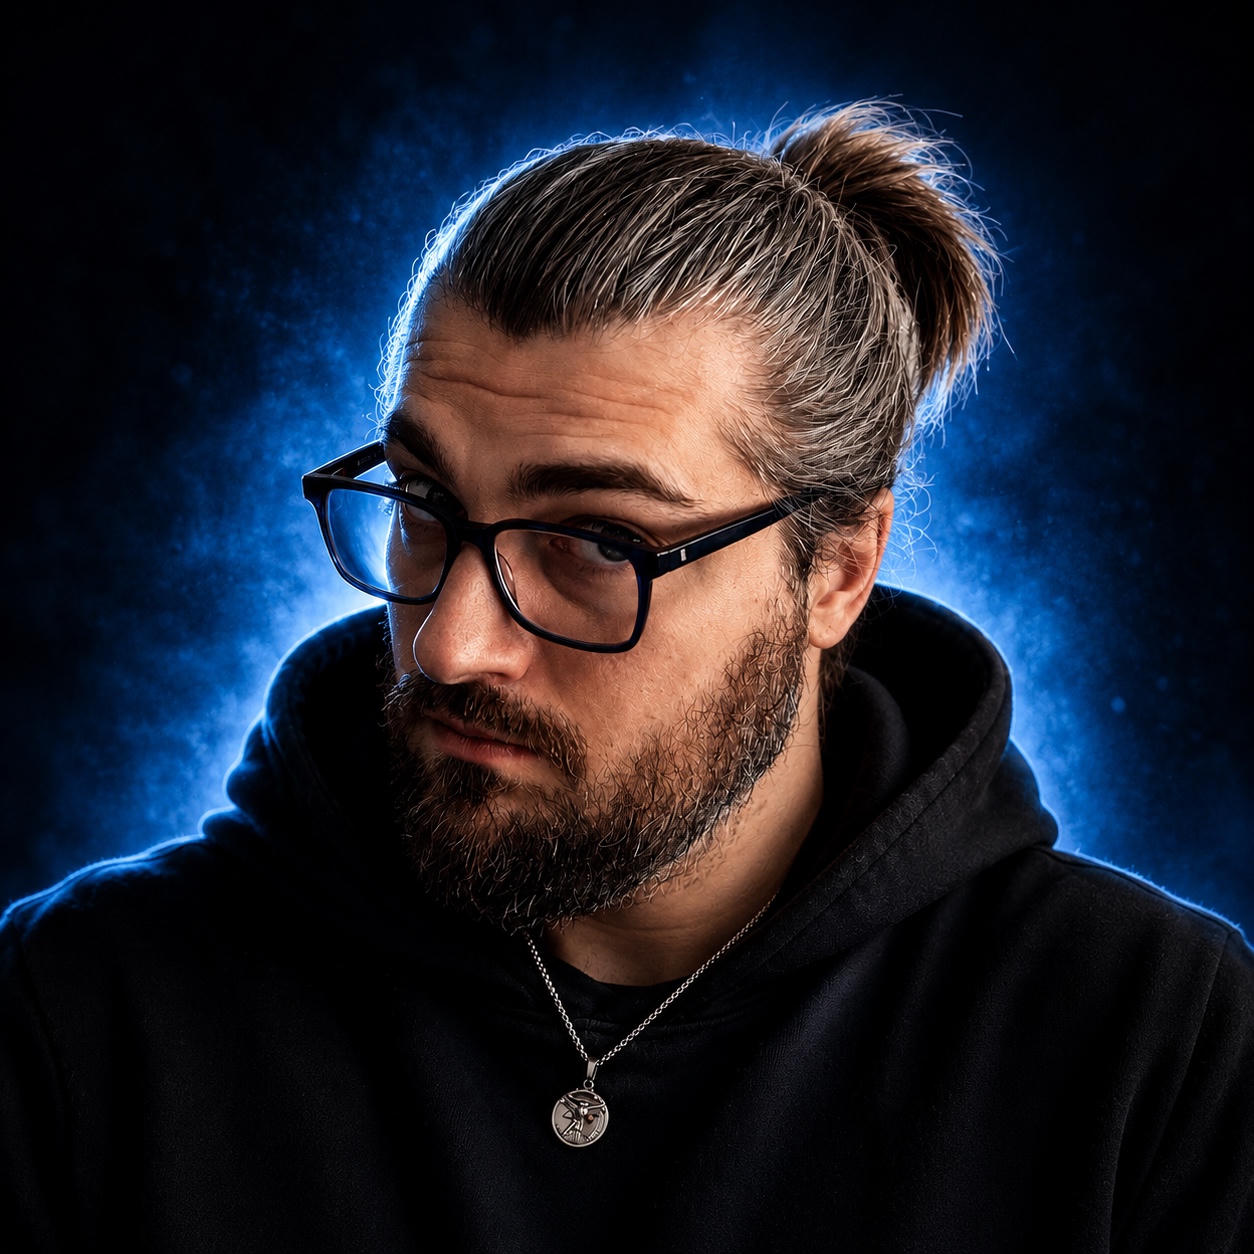
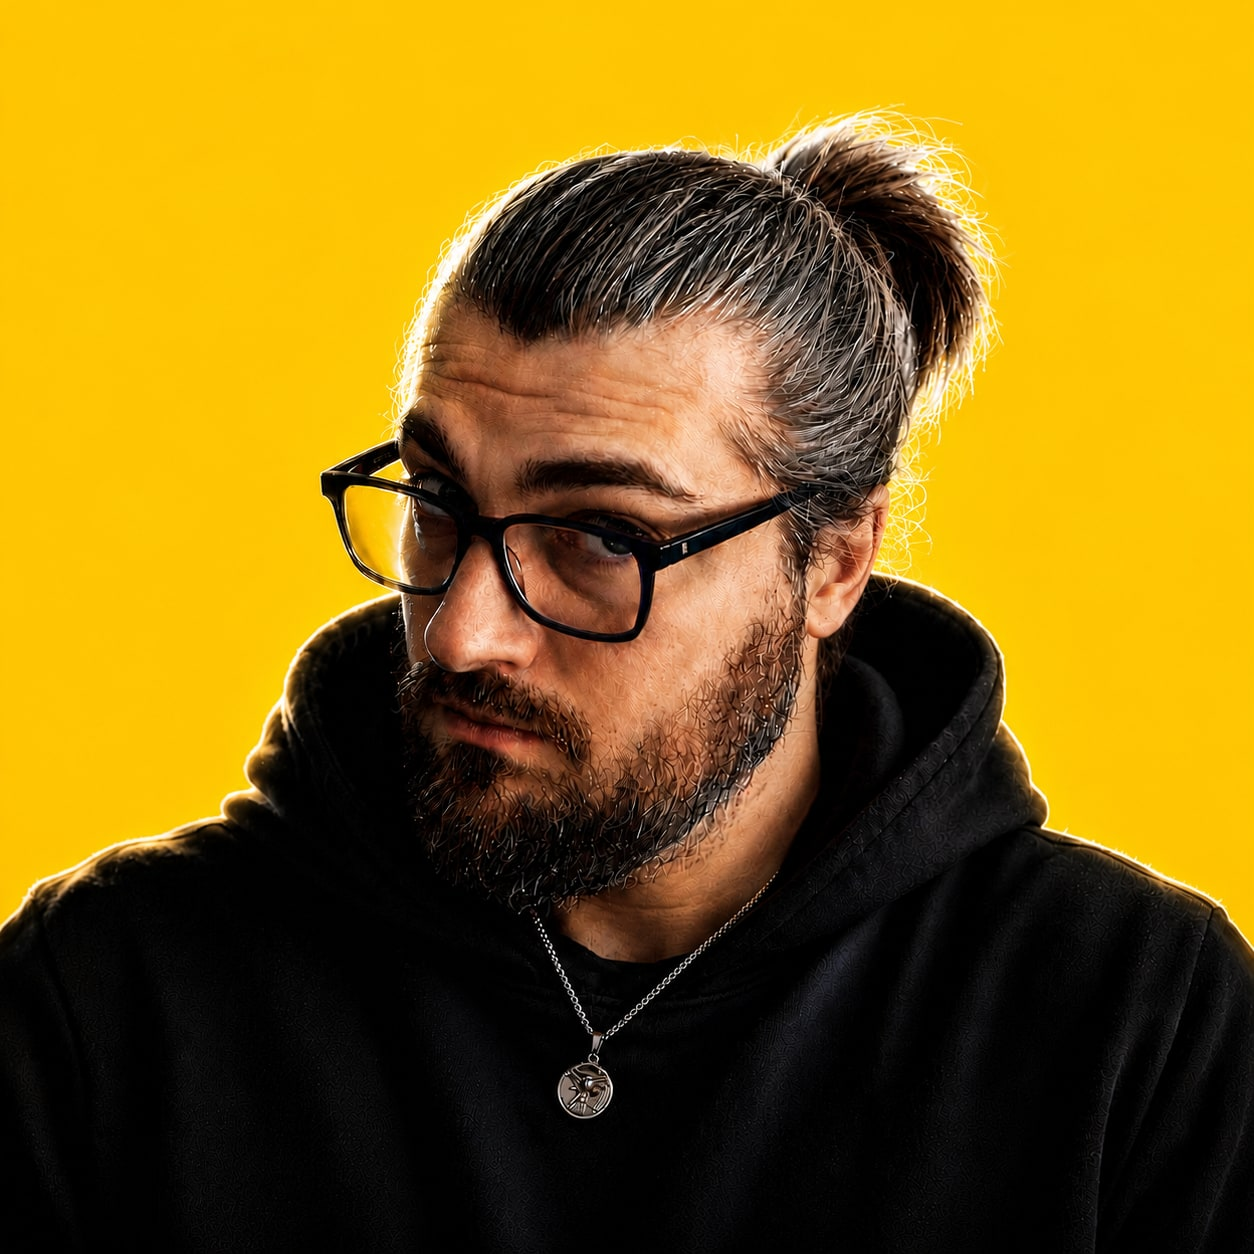
Swap the hero portrait and match the brand yellow to it.
The yellow in Pawel's photo is #FEC602, not the older Selfmade
#FDBB0B. The nav, CTA buttons, badge, and shadows now use that
value. The hero photo is the yellow portrait he sent.

diff --git a/pawelkarniej-web/app/page.tsx b/pawelkarniej-web/app/page.tsx
@@ -182,7 +182,7 @@ export default function Home() {
             >
               <div className="relative w-80 h-80 lg:w-96 lg:h-96">
                 <div className="absolute inset-0 -rotate-3 rounded-3xl border border-selfmade/30 bg-selfmade/10"></div>
-                <div className="relative h-full w-full rotate-2 overflow-hidden rounded-3xl border border-black/10 dark:border-white/10 shadow-[0_24px_80px_-24px_rgba(253,187,11,0.35)] transition-transform duration-700 ease-[cubic-bezier(0.32,0.72,0,1)] hover:rotate-0">
+                <div className="relative h-full w-full rotate-2 overflow-hidden rounded-3xl border border-black/10 dark:border-white/10 shadow-[0_24px_80px_-24px_rgba(254,198,2,0.35)] transition-transform duration-700 ease-[cubic-bezier(0.32,0.72,0,1)] hover:rotate-0">
                   <Image
                     src="/images/me.jpg"
                     alt="Pawel Karniej"

diff --git a/pawelkarniej-web/components/site-nav.tsx b/pawelkarniej-web/components/site-nav.tsx
@@ -63,7 +63,7 @@ export function SiteNav() {
         aria-label="Main navigation"
         className="fixed top-0 inset-x-0 z-50 hidden md:flex justify-center pointer-events-none"
       >
-        <div className="pointer-events-auto mt-6 flex items-center gap-1 rounded-full border border-black/10 bg-selfmade px-3 py-2 shadow-[0_10px_30px_-12px_rgba(253,187,11,0.7)]">
+        <div className="pointer-events-auto mt-6 flex items-center gap-1 rounded-full border border-black/10 bg-selfmade px-3 py-2 shadow-[0_10px_30px_-12px_rgba(254,198,2,0.7)]">
           {NAV_LINKS.map((link) => (
             <Link
               key={link.href}

diff --git a/pawelkarniej-web/app/globals.css b/pawelkarniej-web/app/globals.css
@@ -307,12 +307,12 @@ html {
   width: 100%;
 }
 
-/* Status badge: Selfmade.dev yellow */
+/* Status badge: portrait yellow */
 .status-badge {
   @apply inline-flex items-center px-3 py-1 rounded-full text-xs font-medium;
-  background: linear-gradient(135deg, rgba(253, 187, 11, 0.2), rgba(253, 187, 11, 0.1));
-  border: 1px solid rgba(253, 187, 11, 0.35);
-  color: rgb(253, 187, 11);
+  background: linear-gradient(135deg, rgba(254, 198, 2, 0.2), rgba(254, 198, 2, 0.1));
+  border: 1px solid rgba(254, 198, 2, 0.35);
+  color: rgb(254, 198, 2);
 }
 
 .light .status-badge {

diff --git a/pawelkarniej-web/tailwind.config.ts b/pawelkarniej-web/tailwind.config.ts
@@ -25,11 +25,11 @@ const config = {
         heading: ["var(--font-outfit)", "system-ui", "sans-serif"],
       },
       colors: {
-        // Selfmade.dev yellow, carried over from the first version of this site
+        // Yellow sampled from the hero portrait background (avg #FEC602)
         selfmade: {
-          DEFAULT: "#FDBB0B",
+          DEFAULT: "#FEC602",
           deep: "#B45309",
-          hover: "#E5A90A",
+          hover: "#E5B202",
         },
         border: "hsl(var(--border))",
         input: "hsl(var(--input))",
